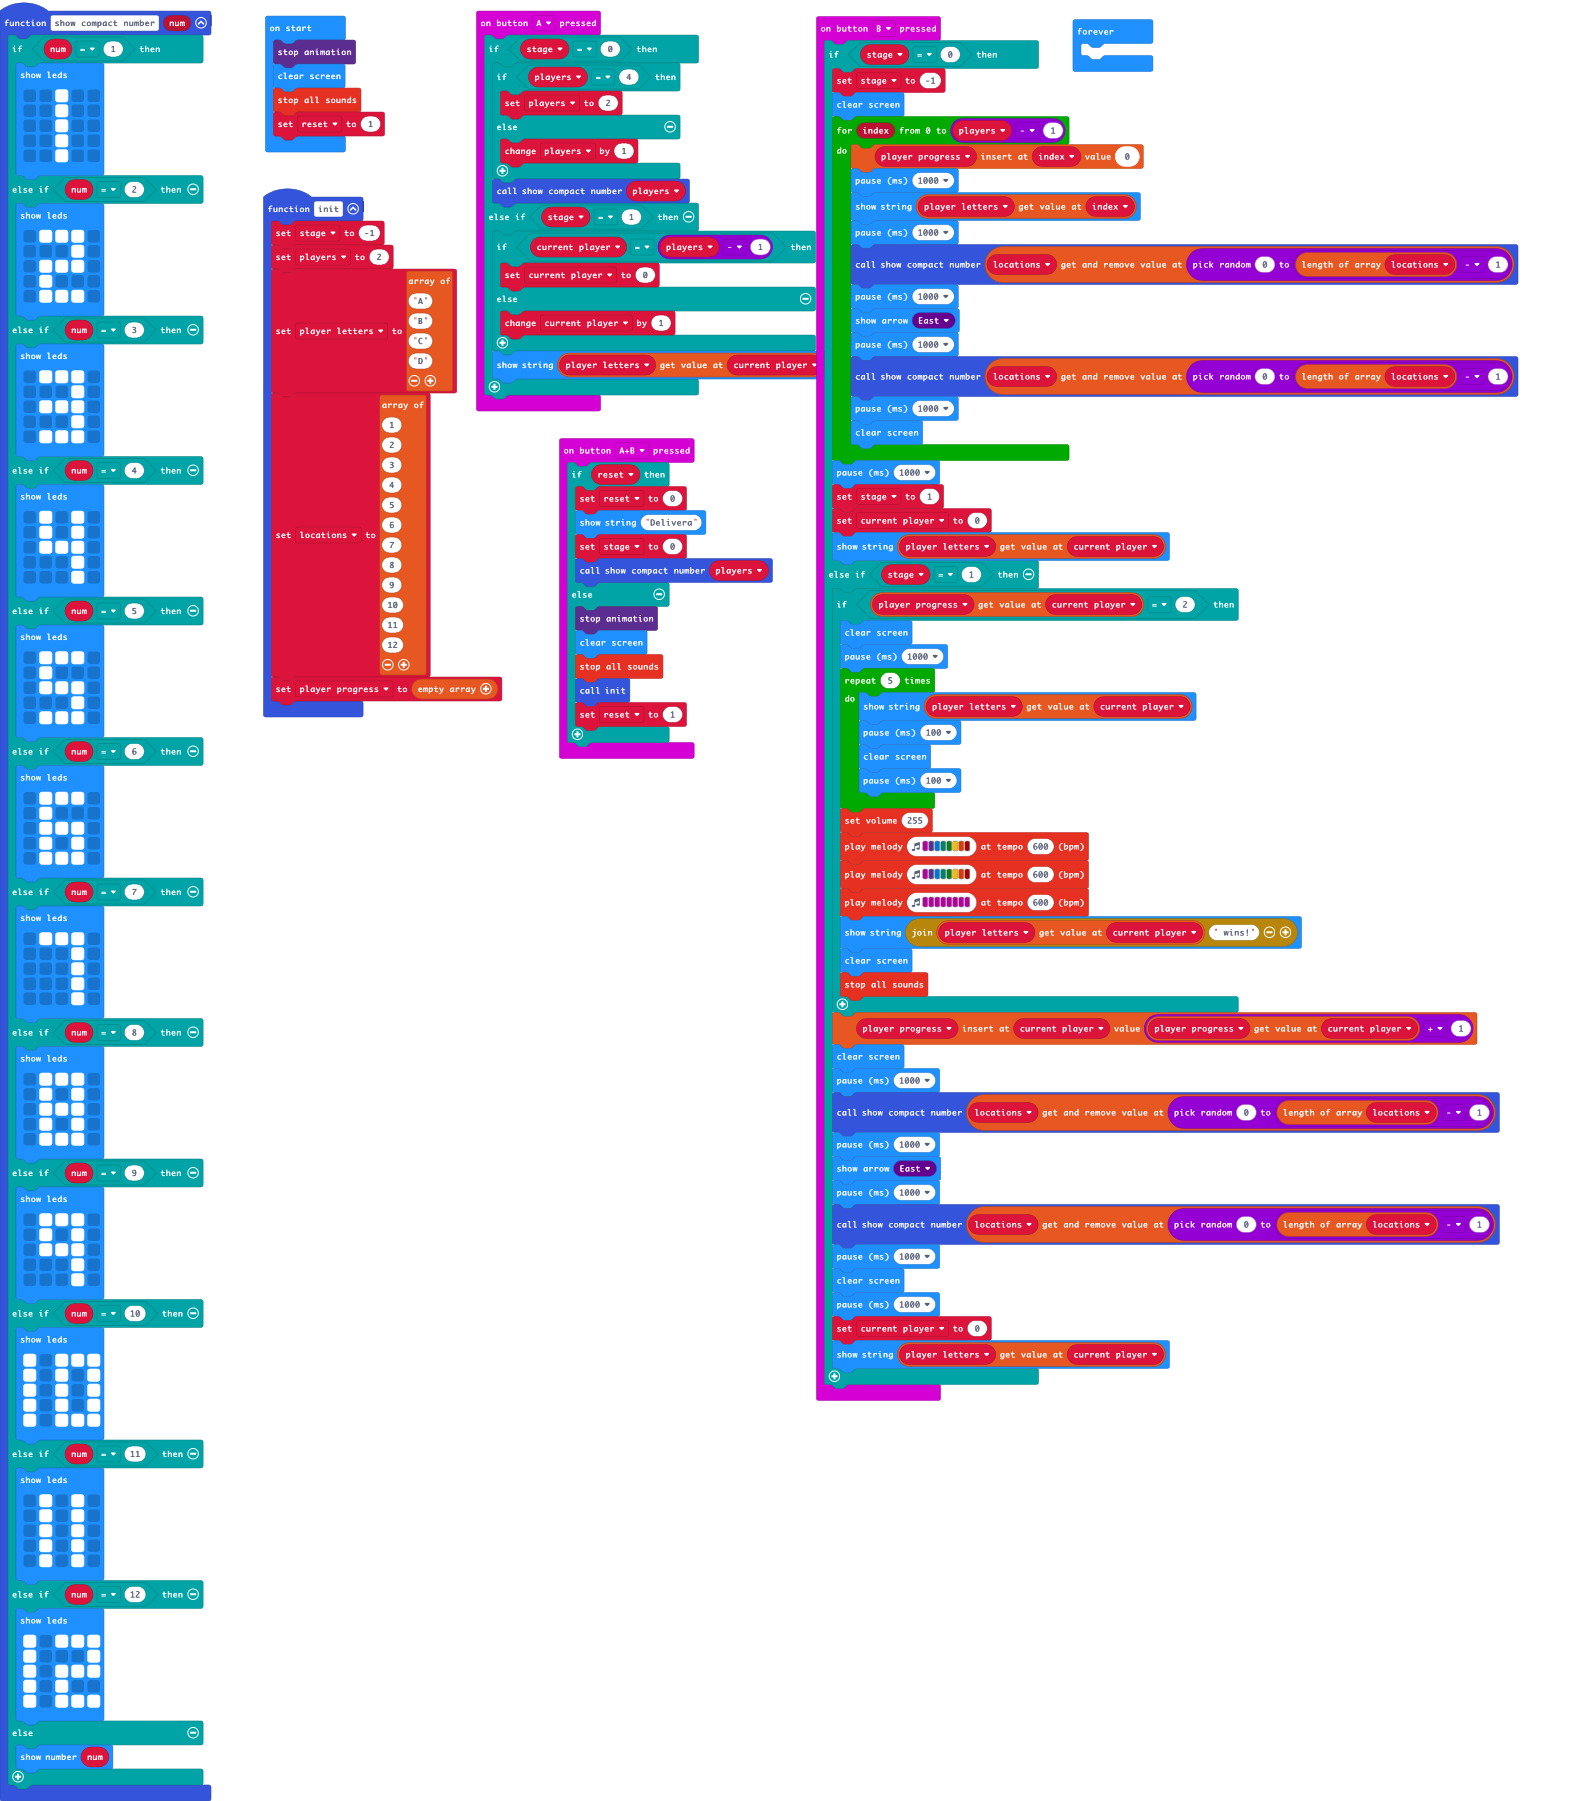
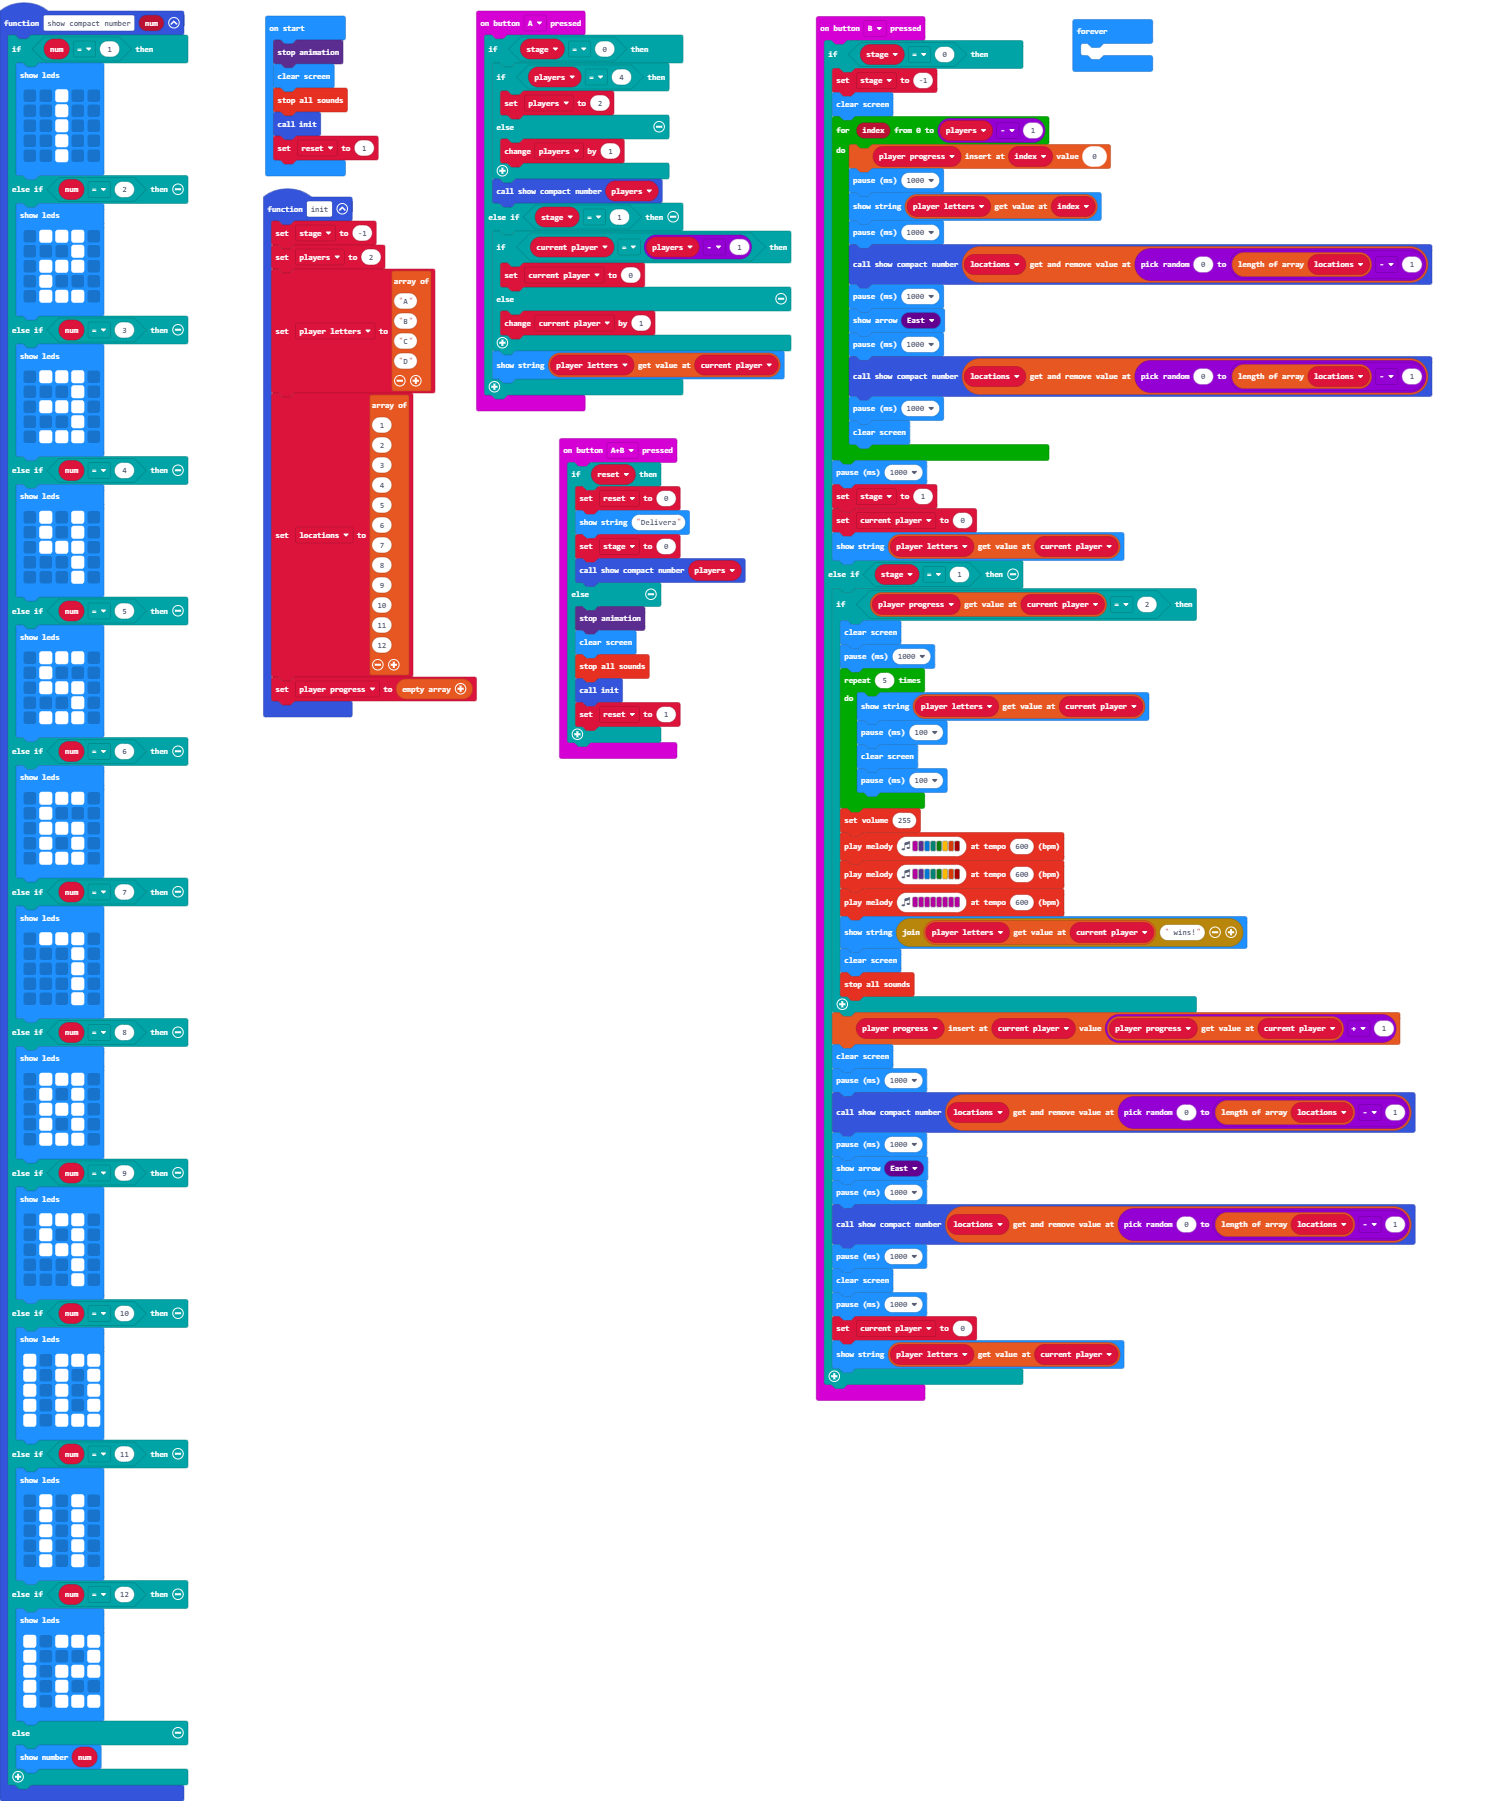
Update main.blocks, main.ts

diff --git a/main.ts b/main.ts
@@ -219,6 +219,7 @@ let reset = 0
 led.stopAnimation()
 basic.clearScreen()
 music.stopAllSounds()
+init()
 reset = 1
 basic.forever(function () {
 	
